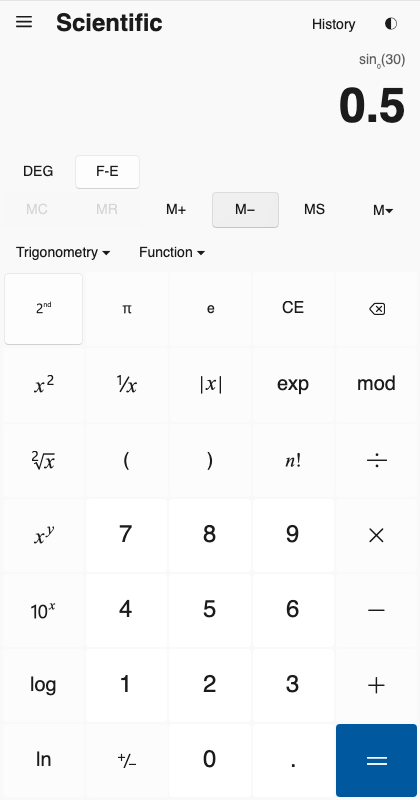
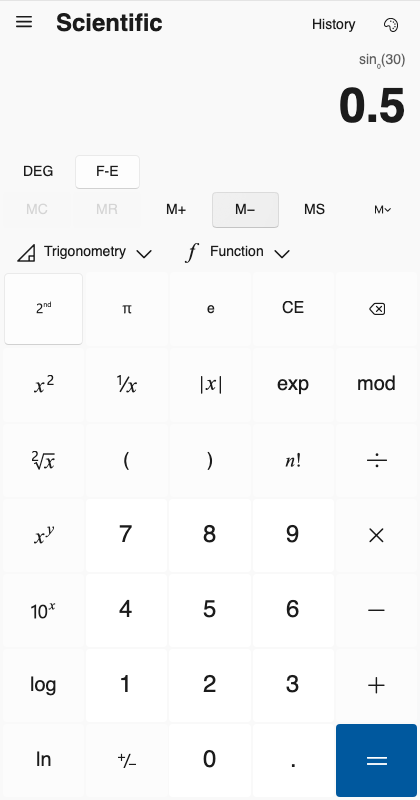
CalculatorIcons glyphs for the memory, theme and operator panel buttons
The browser has no font with the substitute characters ◐ and ▾, so the theme toggle, the memory
dropdown and the operator panel buttons showed missing glyphs on the site. They now take their
glyphs from the embedded CalculatorIcons font, as upstream does:

- the memory dropdown shows the original MemoryButton glyph (E61D);
- the theme toggle, a port addition (upstream switches themes in Settings), shows the glyph of
  the original Settings appearance entry (E790);
- the Trigonometry, Function, Bitwise and Bit shift buttons follow App.xaml's
  OperatorPanelButtonStyle template, generated by port_xaml.py: the panel glyph, the label and the
  E70D chevron.

The README screenshots are captured again; APP-06 records the change.

diff --git a/src/views/CalculatorScientificOperators.xaml b/src/views/CalculatorScientificOperators.xaml
@@ -71,7 +71,12 @@
             </VisualStateGroup>
         </VisualStateManager.VisualStateGroups>
         <StackPanel Orientation="Horizontal" Grid.ColumnSpan="5" AutomationProperties.Name="Scientific operator panels">
-            <Button Classes="calc caption" x:Name="TrigButton" AutomationProperties.AutomationId="trigButton" AutomationProperties.Name="Trigonometry" Content="Trigonometry ▾">
+            <Button Classes="calc caption" x:Name="TrigButton" AutomationProperties.AutomationId="trigButton" AutomationProperties.Name="Trigonometry">
+                <StackPanel Orientation="Horizontal">
+                    <FontIcon Margin="0,2,8,0" VerticalAlignment="Center" FontFamily="fonts:Calculator#Calculator Fluent Icons" Glyph="" />
+                    <TextBlock VerticalAlignment="Center" Text="Trigonometry" />
+                    <FontIcon Margin="8,4,0,0" VerticalAlignment="Center" FontFamily="fonts:Calculator#Calculator Fluent Icons" Glyph="" />
+                </StackPanel>
                 <Button.Flyout>
                     <Flyout>
                         <Grid x:Name="TrigGrid" MinWidth="258" MinHeight="96" FlowDirection="LeftToRight">
@@ -159,7 +164,12 @@
                     </Flyout>
                 </Button.Flyout>
             </Button>
-            <Button Classes="calc caption" x:Name="FuncButton" AutomationProperties.AutomationId="funcButton" AutomationProperties.Name="Functions" Content="Function ▾">
+            <Button Classes="calc caption" x:Name="FuncButton" AutomationProperties.AutomationId="funcButton" AutomationProperties.Name="Functions">
+                <StackPanel Orientation="Horizontal">
+                    <FontIcon Margin="0,2,8,0" VerticalAlignment="Center" FontFamily="fonts:Calculator#Calculator Fluent Icons" Glyph="" />
+                    <TextBlock VerticalAlignment="Center" Text="Function" />
+                    <FontIcon Margin="8,4,0,0" VerticalAlignment="Center" FontFamily="fonts:Calculator#Calculator Fluent Icons" Glyph="" />
+                </StackPanel>
                 <Button.Flyout>
                     <Flyout>
                         <Grid x:Name="FuncGrid" MinWidth="194" MinHeight="96" FlowDirection="LeftToRight">

diff --git a/src/views/CalculatorProgrammerRadixOperators.xaml b/src/views/CalculatorProgrammerRadixOperators.xaml
@@ -47,7 +47,12 @@
             </VisualStateGroup>
         </VisualStateManager.VisualStateGroups>
         <StackPanel Orientation="Horizontal" Grid.ColumnSpan="6" AutomationProperties.Name="Programmer operator panels">
-            <Button Classes="calc caption" x:Name="BitwiseButton" AutomationProperties.AutomationId="bitwiseButton" AutomationProperties.Name="Bitwise" Content="Bitwise ▾">
+            <Button Classes="calc caption" x:Name="BitwiseButton" AutomationProperties.AutomationId="bitwiseButton" AutomationProperties.Name="Bitwise">
+                <StackPanel Orientation="Horizontal">
+                    <FontIcon Margin="0,2,8,0" VerticalAlignment="Center" FontFamily="fonts:Calculator#Calculator Fluent Icons" Glyph="" />
+                    <TextBlock VerticalAlignment="Center" Text="Bitwise" />
+                    <FontIcon Margin="8,4,0,0" VerticalAlignment="Center" FontFamily="fonts:Calculator#Calculator Fluent Icons" Glyph="" />
+                </StackPanel>
                 <Button.Flyout>
                     <Flyout>
                         <Grid x:Name="BitwiseGrid" MinWidth="258" MinHeight="96" FlowDirection="LeftToRight">
@@ -70,7 +75,12 @@
                     </Flyout>
                 </Button.Flyout>
             </Button>
-            <Button Classes="calc caption" x:Name="BitShiftButton" AutomationProperties.AutomationId="bitShiftButton" AutomationProperties.Name="Bitshift" Content="Bit shift ▾">
+            <Button Classes="calc caption" x:Name="BitShiftButton" AutomationProperties.AutomationId="bitShiftButton" AutomationProperties.Name="Bitshift">
+                <StackPanel Orientation="Horizontal">
+                    <FontIcon Margin="0,2,8,0" VerticalAlignment="Center" FontFamily="fonts:Calculator#Calculator Fluent Icons" Glyph="" />
+                    <TextBlock VerticalAlignment="Center" Text="Bit shift" />
+                    <FontIcon Margin="8,4,0,0" VerticalAlignment="Center" FontFamily="fonts:Calculator#Calculator Fluent Icons" Glyph="" />
+                </StackPanel>
                 <Button.Flyout>
                     <Flyout>
                         <Border Padding="12" MaxWidth="192">

diff --git a/src/views/MainPage.xaml b/src/views/MainPage.xaml
@@ -10,7 +10,7 @@
     <Grid Margin="48,4,8,0" ColumnDefinitions="*,Auto,Auto" MinHeight="40">
         <TextBlock x:Name="Header" Text="Standard" FontSize="24" FontWeight="SemiBold" VerticalAlignment="Center" Margin="8,0"/>
         <Button x:Name="HistoryButton" Grid.Column="1" Classes="calc caption" Content="History"/>
-        <Button x:Name="ThemeButton" Grid.Column="2" Classes="calc caption" Content="◐" AutomationProperties.Name="Toggle light and dark theme"/>
+        <Button x:Name="ThemeButton" Grid.Column="2" Classes="calc caption symbol" Content="&#xE790;" AutomationProperties.Name="Toggle light and dark theme" ToolTip.Tip="Toggle light and dark theme"/>
     </Grid>
     <Grid Grid.Row="1" ColumnDefinitions="*,Auto">
         <ContentControl x:Name="ContentFrame" HorizontalContentAlignment="Stretch" VerticalContentAlignment="Stretch"/>

diff --git a/src/views/Calculator.xaml b/src/views/Calculator.xaml
@@ -25,7 +25,7 @@
             <Button x:Name="MemoryAdd" Grid.Column="2" Classes="calc caption" Content="M+"/>
             <Button x:Name="MemorySubtract" Grid.Column="3" Classes="calc caption" Content="M−"/>
             <Button x:Name="MemoryStore" Grid.Column="4" Classes="calc caption" Content="MS"/>
-            <Button x:Name="MemoryShow" Grid.Column="5" Classes="calc caption" Content="M▾"/>
+            <Button x:Name="MemoryShow" Grid.Column="5" Classes="calc caption symbol" Content="&#xE61D;" AutomationProperties.Name="Memory" ToolTip.Tip="Memory"/>
         </Grid>
         <Grid Grid.Row="4">
             <ContentControl x:Name="OperatorsPanel" HorizontalContentAlignment="Stretch" VerticalContentAlignment="Stretch"/>

diff --git a/scripts/port_xaml.py b/scripts/port_xaml.py
@@ -98,6 +98,7 @@ def transform(e,file,path=''):
         if prop.startswith('AutomationProperties.') and prop!='AutomationProperties.Name' and prop!='AutomationProperties.AutomationId':
             record(file,path,'attribute',k+'='+v,gap='A11Y-01');continue
         if prop=='Text' and target=='Button':continue
+        if prop=='Glyph' and t=='OperatorPanelButton':continue
         if prop=='FontFamily' and 'CalculatorFontFamily' in v:
             out.set(prop,'fonts:Calculator#Calculator Fluent Icons');continue
         if prop in attrs or prop in ['AutomationProperties.Name','AutomationProperties.AutomationId']:
@@ -113,13 +114,22 @@ def transform(e,file,path=''):
                 record(file,path,'binding',k+'='+v,'Rust view update',gap='XAML-01');continue
             out.set(prop,v);continue
         record(file,path,'attribute',k+'='+v,gap='XAML-01')
-    # The panel's localized label is stored in a WinUI-specific plain property.
+    # The panel's localized label is stored in a WinUI-specific plain property. The content
+    # follows App.xaml's OperatorPanelButtonStyle template: the panel glyph, the label and the
+    # chevron (E70D), both glyphs from CalculatorIcons.
     if t=='OperatorPanelButton':
         for prop in ['Content','Text','Label']:
             value=e.attrib.get(prop,'')
             if value.startswith('{utils:ResourceString Name='):
                 value=strings.get(value[len('{utils:ResourceString Name='):-1].replace('/', '.'),'')
-            if value:out.set('Content',value+' ▾');break
+            if value:
+                panel=E.SubElement(out,'{'+F+'}StackPanel',{'Orientation':'Horizontal'})
+                icons='fonts:Calculator#Calculator Fluent Icons'
+                if e.attrib.get('Glyph'):
+                    E.SubElement(panel,'{'+F+'}FontIcon',{'Margin':'0,2,8,0','VerticalAlignment':'Center','FontFamily':icons,'Glyph':e.attrib['Glyph']})
+                E.SubElement(panel,'{'+F+'}TextBlock',{'VerticalAlignment':'Center','Text':value})
+                E.SubElement(panel,'{'+F+'}FontIcon',{'Margin':'8,4,0,0','VerticalAlignment':'Center','FontFamily':icons,'Glyph':'\ue70d'})
+                break
     for c in e:
         child=transform(c,file,path)
         if child is not None:out.append(child)

diff --git a/docs/FERROUI-GAPS.md b/docs/FERROUI-GAPS.md
@@ -67,7 +67,7 @@ The previous statements that Reveal, AcrylicBrush, NavigationView, ThemeShadow, 
 | APP-03 | Settings/session persistence | Appearance changes work during the session. Original settings/history/memory persistence and command snapshots are not implemented. |
 | APP-04 | Clipboard/shortcuts | Existing async clipboard APIs, validated numeric paste and extracted keypad shortcuts are wired. Full platform/localized shortcut and announcement parity remains open. |
 | APP-05 | Engine preservation | CalcManager/CEngine/Ratpack compile unchanged. Compatibility headers, UTF/ABI ownership and offline continuations remain outside upstream. UnitConverter retains its original double-based ratios; Calculator arithmetic still uses the original rational engine. |
-| APP-06 | Fonts, icons and visual parity | Original CalculatorIcons.ttf is embedded unchanged and used for keypad symbols and navigation glyphs. Text uses the WinUI theme's Segoe UI Variable Text / Segoe UI / platform fallback chain; no Segoe family is installed on this Mac and no Segoe text font is bundled. Text shapes/metrics therefore remain a parity gap. History is still a text label, the theme toggle and memory dropdown include substitute characters, and the compact-overlay icon/action is absent. Restore those original icon controls, adaptive result/header typography, exact spacing and platform appearance before claiming visual parity. |
+| APP-06 | Fonts, icons and visual parity | Original CalculatorIcons.ttf is embedded unchanged and used for keypad symbols and navigation glyphs. Text uses the WinUI theme's Segoe UI Variable Text / Segoe UI / platform fallback chain; no Segoe family is installed on this Mac and no Segoe text font is bundled. Text shapes/metrics therefore remain a parity gap. The memory dropdown uses the original CalculatorIcons glyph (E61D), the theme toggle (a port addition; upstream switches themes in Settings) uses the glyph of the original Settings appearance entry (E790), and the operator panel buttons follow OperatorPanelButtonStyle with their panel glyph, label and E70D chevron, so no shell icon depends on a system font, which matters in the browser. History is still a text label, and the compact-overlay icon/action is absent. Restore those original icon controls, adaptive result/header typography, exact spacing and platform appearance before claiming visual parity. |
 
 ## Completion rules
 
